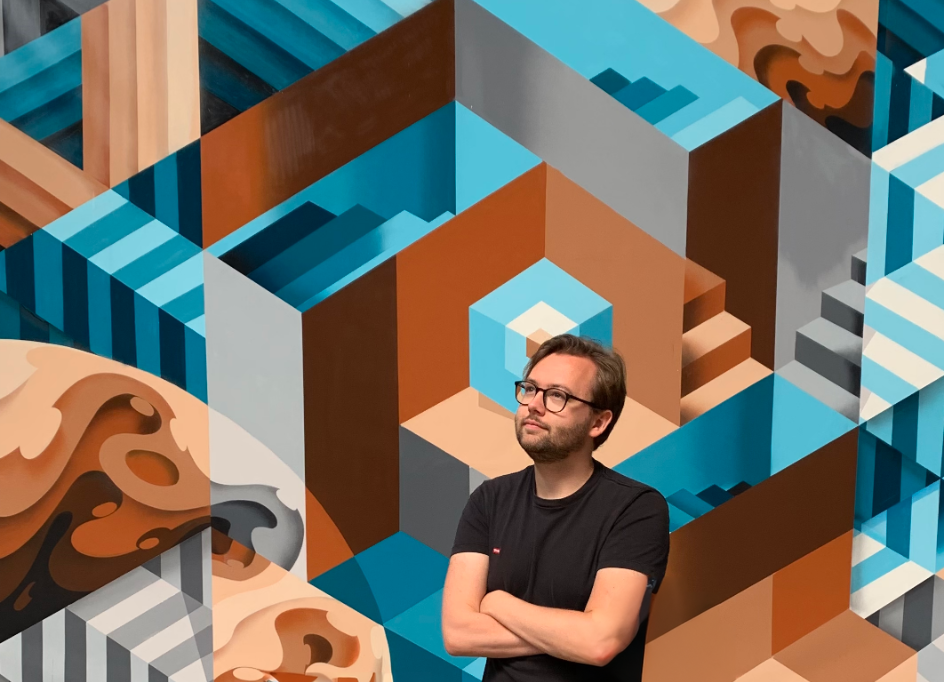
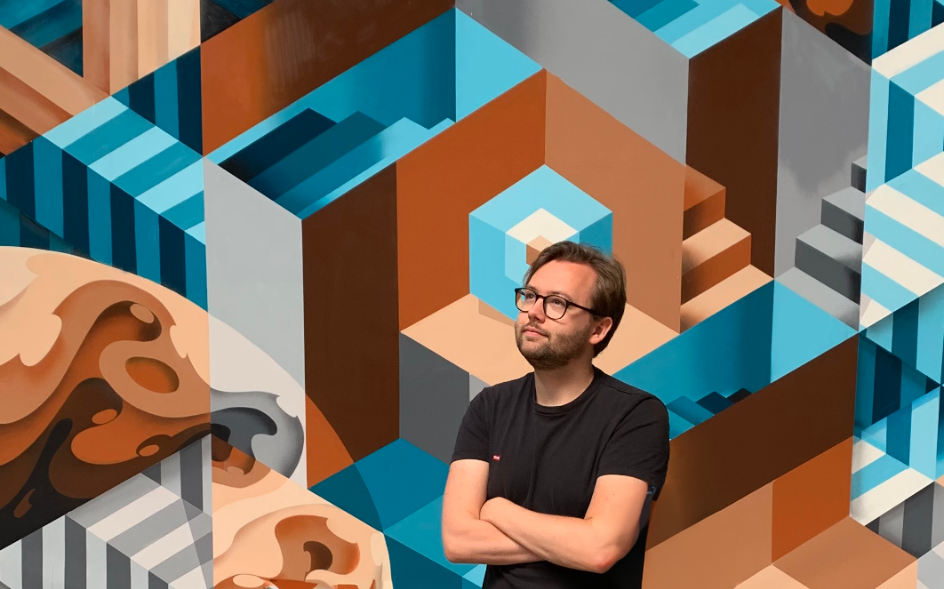
Put picture in middle

diff --git a/publications.html b/publications.html
@@ -78,22 +78,22 @@
                 <h2 class="pub-head">International journal articles</h2>
                 
                   <div class="publication-card">
-                    <p><span class='highlight-me'>C. de Vente</span>, L.H. Boulogne, K. Vaidhya Venkadesh, C. Sital, N. Lessmann, C. Jacobs, C.I. Sánchez and B. van Ginneken. "Automated COVID-19 Grading with Convolutional Neural Networks in Computed Tomography Scans: A Systematic Comparison", <i>IEEE Transactions on Artificial Intelligence</i>, 2022;3(2):129-138.</p><div class="publication-button-group"><a data-ix="goupbox" id="publication-modal-vent21-button" class="knop footerknop movewithmouse w-button publication-button">Cite</a> <a data-ix="goupbox" target="_blank" class="knop footerknop movewithmouse w-button publication-button" href="https://doi.org/10.1109/TAI.2021.3115093">DOI</a></div>
+                    <p><span class='highlight-me'>C. de Vente</span>, L.H. Boulogne, K. Vaidhya Venkadesh, C. Sital, N. Lessmann, C. Jacobs, C.I. Sánchez and B. van Ginneken. "Automated COVID-19 Grading with Convolutional Neural Networks in Computed Tomography Scans: A Systematic Comparison", <i>IEEE Transactions on Artificial Intelligence</i>, 2022;3(2):129-138.</p><div class="publication-button-group"><a data-ix="goupbox" id="publication-modal-vent21-button" class="knop footerknop movewithmouse w-button publication-button">Cite</a><a data-ix="goupbox" href="https://scholar.google.com/scholar?oi=bibs&hl=nl&cites=3751302600748129411" target="_new" class="knop footerknop movewithmouse w-button publication-button">Cited by 9</a> <a data-ix="goupbox" target="_blank" class="knop footerknop movewithmouse w-button publication-button" href="https://doi.org/10.1109/TAI.2021.3115093">DOI</a></div>
 
                   </div>
                 
                   <div class="publication-card">
-                    <p>N. Lessmann, C.I. Sánchez, L. Beenen, L.H. Boulogne, M. Brink, E. Calli, J. Charbonnier, T. Dofferhoff, W.M. van Everdingen, P.K. Gerke, B. Geurts, H.A. Gietema, M. Groeneveld, L. van Harten, N. Hendrix, W. Hendrix, H.J. Huisman, I. Isgum, C. Jacobs, R. Kluge, M. Kok, J. Krdzalic, B. Lassen-Schmidt, K. van Leeuwen, J. Meakin, M. Overkamp, T. van Rees Vellinga, E.M. van Rikxoort, R. Samperna, C. Schaefer-Prokop, S. Schalekamp, E.T. Scholten, C. Sital, L. Stöger, J. Teuwen, K. Vaidhya Venkadesh, <span class='highlight-me'>C. de Vente</span>, M. Vermaat, W. Xie, B. de Wilde, M. Prokop and B. van Ginneken. "Automated Assessment of COVID-19 Reporting and Data System and Chest CT Severity Scores in Patients Suspected of Having COVID-19 Using Artificial Intelligence", <i>Radiology</i>, 2021;298(1):E18-E28.</p><div class="publication-button-group"><a data-ix="goupbox" id="publication-modal-less20-button" class="knop footerknop movewithmouse w-button publication-button">Cite</a> <a data-ix="goupbox" target="_blank" class="knop footerknop movewithmouse w-button publication-button" href="https://doi.org/10.1148/radiol.2020202439">DOI</a> <a data-ix="goupbox" target="_blank" class="knop footerknop movewithmouse w-button publication-button" href="http://www.ncbi.nlm.nih.gov/pubmed/32729810/">PMID</a></div>
+                    <p>N. Lessmann, C.I. Sánchez, L. Beenen, L.H. Boulogne, M. Brink, E. Calli, J. Charbonnier, T. Dofferhoff, W.M. van Everdingen, P.K. Gerke, B. Geurts, H.A. Gietema, M. Groeneveld, L. van Harten, N. Hendrix, W. Hendrix, H.J. Huisman, I. Isgum, C. Jacobs, R. Kluge, M. Kok, J. Krdzalic, B. Lassen-Schmidt, K. van Leeuwen, J. Meakin, M. Overkamp, T. van Rees Vellinga, E.M. van Rikxoort, R. Samperna, C. Schaefer-Prokop, S. Schalekamp, E.T. Scholten, C. Sital, L. Stöger, J. Teuwen, K. Vaidhya Venkadesh, <span class='highlight-me'>C. de Vente</span>, M. Vermaat, W. Xie, B. de Wilde, M. Prokop and B. van Ginneken. "Automated Assessment of COVID-19 Reporting and Data System and Chest CT Severity Scores in Patients Suspected of Having COVID-19 Using Artificial Intelligence", <i>Radiology</i>, 2021;298(1):E18-E28.</p><div class="publication-button-group"><a data-ix="goupbox" id="publication-modal-less20-button" class="knop footerknop movewithmouse w-button publication-button">Cite</a><a data-ix="goupbox" href="https://scholar.google.com/scholar?oi=bibs&hl=nl&cites=13623399645587834950,2370993400684076548" target="_new" class="knop footerknop movewithmouse w-button publication-button">Cited by 127</a> <a data-ix="goupbox" target="_blank" class="knop footerknop movewithmouse w-button publication-button" href="https://doi.org/10.1148/radiol.2020202439">DOI</a> <a data-ix="goupbox" target="_blank" class="knop footerknop movewithmouse w-button publication-button" href="http://www.ncbi.nlm.nih.gov/pubmed/32729810/">PMID</a></div>
 
                   </div>
                 
                   <div class="publication-card">
-                    <p>Z. Xiong, Q. Xia, Z. Hu, N. Huang, C. Bian, Y. Zheng, S. Vesal, N. Ravikumar, A. Maier, X. Yang, P. Heng, D. Ni, C. Li, Q. Tong, W. Si, E. Puybareau, Y. Khoudli, T. Graud, C. Chen, W. Bai, D. Rueckert, L. Xu, X. Zhuang, X. Luo, S. Jia, M. Sermesant, Y. Liu, K. Wang, D. Borra, A. Masci, C. Corsi, <span class='highlight-me'>C. de Vente</span>, M. Veta, R. Karim, C. Jayachandran Preetha, S. Engelhardt, M. Qiao, Y. Wang, Q. Tao, M. Nuñez-Garcia, O. Camara, N. Savioli, P. Lamata and J. Zhao. "A global benchmark of algorithms for segmenting the left atrium from late gadolinium-enhanced cardiac magnetic resonance imaging", <i>Medical Image Analysis</i>, 2021;67:101832.</p><div class="publication-button-group"><a data-ix="goupbox" id="publication-modal-xion21-button" class="knop footerknop movewithmouse w-button publication-button">Cite</a> <a data-ix="goupbox" target="_blank" class="knop footerknop movewithmouse w-button publication-button" href="http://www.ncbi.nlm.nih.gov/pubmed/33166776/">PMID</a></div>
+                    <p>Z. Xiong, Q. Xia, Z. Hu, N. Huang, C. Bian, Y. Zheng, S. Vesal, N. Ravikumar, A. Maier, X. Yang, P. Heng, D. Ni, C. Li, Q. Tong, W. Si, E. Puybareau, Y. Khoudli, T. Graud, C. Chen, W. Bai, D. Rueckert, L. Xu, X. Zhuang, X. Luo, S. Jia, M. Sermesant, Y. Liu, K. Wang, D. Borra, A. Masci, C. Corsi, <span class='highlight-me'>C. de Vente</span>, M. Veta, R. Karim, C. Jayachandran Preetha, S. Engelhardt, M. Qiao, Y. Wang, Q. Tao, M. Nuñez-Garcia, O. Camara, N. Savioli, P. Lamata and J. Zhao. "A global benchmark of algorithms for segmenting the left atrium from late gadolinium-enhanced cardiac magnetic resonance imaging", <i>Medical Image Analysis</i>, 2021;67:101832.</p><div class="publication-button-group"><a data-ix="goupbox" id="publication-modal-xion21-button" class="knop footerknop movewithmouse w-button publication-button">Cite</a><a data-ix="goupbox" href="https://scholar.google.com/scholar?oi=bibs&hl=nl&cites=298995361484429794" target="_new" class="knop footerknop movewithmouse w-button publication-button">Cited by 66</a> <a data-ix="goupbox" target="_blank" class="knop footerknop movewithmouse w-button publication-button" href="http://www.ncbi.nlm.nih.gov/pubmed/33166776/">PMID</a></div>
 
                   </div>
                 
                   <div class="publication-card">
-                    <p><span class='highlight-me'>C. de Vente</span>, P. Vos, M. Hosseinzadeh, J. Pluim and M. Veta. "Deep learning regression for prostate cancer detection and grading in bi-parametric MRI", <i>IEEE Transactions on Biomedical Engineering</i>, 2020;68(2):374-383.</p><div class="publication-button-group"><a data-ix="goupbox" id="publication-modal-vent20a-button" class="knop footerknop movewithmouse w-button publication-button">Cite</a> <a data-ix="goupbox" target="_blank" class="knop footerknop movewithmouse w-button publication-button" href="https://doi.org/10.1109/TBME.2020.2993528">DOI</a> <a data-ix="goupbox" target="_blank" class="knop footerknop movewithmouse w-button publication-button" href="http://www.ncbi.nlm.nih.gov/pubmed/32396068/">PMID</a></div>
+                    <p><span class='highlight-me'>C. de Vente</span>, P. Vos, M. Hosseinzadeh, J. Pluim and M. Veta. "Deep learning regression for prostate cancer detection and grading in bi-parametric MRI", <i>IEEE Transactions on Biomedical Engineering</i>, 2020;68(2):374-383.</p><div class="publication-button-group"><a data-ix="goupbox" id="publication-modal-vent20a-button" class="knop footerknop movewithmouse w-button publication-button">Cite</a><a data-ix="goupbox" href="https://scholar.google.com/scholar?oi=bibs&hl=nl&cites=403188362461805794" target="_new" class="knop footerknop movewithmouse w-button publication-button">Cited by 43</a> <a data-ix="goupbox" target="_blank" class="knop footerknop movewithmouse w-button publication-button" href="https://doi.org/10.1109/TBME.2020.2993528">DOI</a> <a data-ix="goupbox" target="_blank" class="knop footerknop movewithmouse w-button publication-button" href="http://www.ncbi.nlm.nih.gov/pubmed/32396068/">PMID</a></div>
 
                   </div>
                 
@@ -101,7 +101,7 @@
                 <h2 class="pub-head">Preprints</h2>
                 
                   <div class="publication-card">
-                    <p>R. Schwartz, H. Khalid, S. Liakopoulos, Y. Ouyang, <span class='highlight-me'>C. de Vente</span>, C. González-Gonzalo, A.Y. Lee, R. Guymer, E.Y. Chew, C. Egan and others. "A deep learning framework for the detection and quantification of drusen and reticular pseudodrusen on optical coherence tomography", <i>arXiv:2204.02406</i>, 2022.</p><div class="publication-button-group"><a data-ix="goupbox" id="publication-modal-schw22-button" class="knop footerknop movewithmouse w-button publication-button">Cite</a> <a data-ix="goupbox" target="_blank" class="knop footerknop movewithmouse w-button publication-button" href="https://arxiv.org/abs/2204.02406/">arXiv</a></div>
+                    <p>R. Schwartz, H. Khalid, S. Liakopoulos, Y. Ouyang, <span class='highlight-me'>C. de Vente</span>, C. González-Gonzalo, A.Y. Lee, R. Guymer, E.Y. Chew, C. Egan and others. "A deep learning framework for the detection and quantification of drusen and reticular pseudodrusen on optical coherence tomography", <i>arXiv:2204.02406</i>, 2022.</p><div class="publication-button-group"><a data-ix="goupbox" id="publication-modal-schw22-button" class="knop footerknop movewithmouse w-button publication-button">Cite</a><a data-ix="goupbox" href="https://scholar.google.com/scholar?oi=bibs&hl=nl&cites=15646198235825211737" target="_new" class="knop footerknop movewithmouse w-button publication-button">Cited by 1</a> <a data-ix="goupbox" target="_blank" class="knop footerknop movewithmouse w-button publication-button" href="https://arxiv.org/abs/2204.02406/">arXiv</a></div>
 
                   </div>
                 
@@ -124,17 +124,17 @@
                   </div>
                 
                   <div class="publication-card">
-                    <p><span class='highlight-me'>C. de Vente</span>, C. González-Gonzalo, E.F. Thee, M. van Grinsven, C.C. Klaver and C.I. Sánchez. "Making AI Transferable Across OCT Scanners from Different Vendors", in: <i>Association for Research in Vision and Ophthalmology</i>, 2021.</p><div class="publication-button-group"><a data-ix="goupbox" id="publication-modal-vent21a-button" class="knop footerknop movewithmouse w-button publication-button">Cite</a> <a data-ix="goupbox" target="_blank" class="knop footerknop movewithmouse w-button publication-button" href="https://iovs.arvojournals.org/article.aspx?articleid=2775505">URL</a></div>
+                    <p><span class='highlight-me'>C. de Vente</span>, C. González-Gonzalo, E.F. Thee, M. van Grinsven, C.C. Klaver and C.I. Sánchez. "Making AI Transferable Across OCT Scanners from Different Vendors", in: <i>Association for Research in Vision and Ophthalmology</i>, 2021.</p><div class="publication-button-group"><a data-ix="goupbox" id="publication-modal-vent21a-button" class="knop footerknop movewithmouse w-button publication-button">Cite</a><a data-ix="goupbox" href="https://scholar.google.com/scholar?oi=bibs&hl=nl&cites=504386056410585983" target="_new" class="knop footerknop movewithmouse w-button publication-button">Cited by 1</a> <a data-ix="goupbox" target="_blank" class="knop footerknop movewithmouse w-button publication-button" href="https://iovs.arvojournals.org/article.aspx?articleid=2775505">URL</a></div>
 
                   </div>
                 
                   <div class="publication-card">
-                    <p>C. González-Gonzalo, E.F. Thee, B. Liefers, <span class='highlight-me'>C. de Vente</span>, C.C. Klaver and C.I. Sánchez. "Hierarchical curriculum learning for robust automated detection of low-prevalence retinal disease features: application to reticular pseudodrusen", in: <i>Association for Research in Vision and Ophthalmology</i>, 2021.</p><div class="publication-button-group"><a data-ix="goupbox" id="publication-modal-gonz21-button" class="knop footerknop movewithmouse w-button publication-button">Cite</a> <a data-ix="goupbox" target="_blank" class="knop footerknop movewithmouse w-button publication-button" href="https://iovs.arvojournals.org/article.aspx?articleid=2773295">URL</a></div>
+                    <p>C. González-Gonzalo, E.F. Thee, B. Liefers, <span class='highlight-me'>C. de Vente</span>, C.C. Klaver and C.I. Sánchez. "Hierarchical curriculum learning for robust automated detection of low-prevalence retinal disease features: application to reticular pseudodrusen", in: <i>Association for Research in Vision and Ophthalmology</i>, 2021.</p><div class="publication-button-group"><a data-ix="goupbox" id="publication-modal-gonz21-button" class="knop footerknop movewithmouse w-button publication-button">Cite</a><a data-ix="goupbox" href="https://scholar.google.com/scholar?oi=bibs&hl=nl&cites=8274882984481634472" target="_new" class="knop footerknop movewithmouse w-button publication-button">Cited by 1</a> <a data-ix="goupbox" target="_blank" class="knop footerknop movewithmouse w-button publication-button" href="https://iovs.arvojournals.org/article.aspx?articleid=2773295">URL</a></div>
 
                   </div>
                 
                   <div class="publication-card">
-                    <p><span class='highlight-me'>C. de Vente</span>, M. van Grinsven, S. De Zanet, A. Mosinska, R. Sznitman, C. Klaver and C.I. Sánchez. "Estimating Uncertainty of Deep Neural Networks for Age-related Macular Degeneration Grading using Optical Coherence Tomography", in: <i>Association for Research in Vision and Ophthalmology</i>, 2020.</p><div class="publication-button-group"><a data-ix="goupbox" id="publication-modal-vent20-button" class="knop footerknop movewithmouse w-button publication-button">Cite</a> <a data-ix="goupbox" target="_blank" class="knop footerknop movewithmouse w-button publication-button" href="https://iovs.arvojournals.org/article.aspx?articleid=2769262">URL</a></div>
+                    <p><span class='highlight-me'>C. de Vente</span>, M. van Grinsven, S. De Zanet, A. Mosinska, R. Sznitman, C. Klaver and C.I. Sánchez. "Estimating Uncertainty of Deep Neural Networks for Age-related Macular Degeneration Grading using Optical Coherence Tomography", in: <i>Association for Research in Vision and Ophthalmology</i>, 2020.</p><div class="publication-button-group"><a data-ix="goupbox" id="publication-modal-vent20-button" class="knop footerknop movewithmouse w-button publication-button">Cite</a><a data-ix="goupbox" href="https://scholar.google.com/scholar?oi=bibs&hl=nl&cites=13938730969248371423" target="_new" class="knop footerknop movewithmouse w-button publication-button">Cited by 1</a> <a data-ix="goupbox" target="_blank" class="knop footerknop movewithmouse w-button publication-button" href="https://iovs.arvojournals.org/article.aspx?articleid=2769262">URL</a></div>
 
                   </div>
                 
@@ -147,7 +147,7 @@
                 <h2 class="pub-head">Papers in conference proceedings</h2>
                 
                   <div class="publication-card">
-                    <p><span class='highlight-me'>C. de Vente</span>, M. Veta, O. Razeghi, S. Niederer, J. Pluim, K. Rhode and R. Karim. "Convolutional neural networks for segmentation of the left atrium from gadolinium-enhancement MRI images", in: <i>International Workshop on Statistical Atlases and Computational Models of the Heart</i>, 2018, pages 348-356.</p><div class="publication-button-group"><a data-ix="goupbox" id="publication-modal-vent18-button" class="knop footerknop movewithmouse w-button publication-button">Cite</a></div>
+                    <p><span class='highlight-me'>C. de Vente</span>, M. Veta, O. Razeghi, S. Niederer, J. Pluim, K. Rhode and R. Karim. "Convolutional neural networks for segmentation of the left atrium from gadolinium-enhancement MRI images", in: <i>International Workshop on Statistical Atlases and Computational Models of the Heart</i>, 2018, pages 348-356.</p><div class="publication-button-group"><a data-ix="goupbox" id="publication-modal-vent18-button" class="knop footerknop movewithmouse w-button publication-button">Cite</a><a data-ix="goupbox" href="https://scholar.google.com/scholar?oi=bibs&hl=nl&cites=1263087259858021090" target="_new" class="knop footerknop movewithmouse w-button publication-button">Cited by 5</a></div>
 
                   </div>
                 

diff --git a/project-prostate.html b/project-prostate.html
@@ -97,7 +97,7 @@
             <p>Please use this when referring to the post or publication:</p>
             
               <div class="publication-card">
-                <p><span class='highlight-me'>C. de Vente</span>, P. Vos, M. Hosseinzadeh, J. Pluim and M. Veta. "Deep learning regression for prostate cancer detection and grading in bi-parametric MRI", <i>IEEE Transactions on Biomedical Engineering</i>, 2020;68(2):374-383.</p><div class="publication-button-group"><a data-ix="goupbox" id="publication-modal-vent20a-button" class="knop footerknop movewithmouse w-button publication-button">Cite</a> <a data-ix="goupbox" target="_blank" class="knop footerknop movewithmouse w-button publication-button" href="https://doi.org/10.1109/TBME.2020.2993528">DOI</a> <a data-ix="goupbox" target="_blank" class="knop footerknop movewithmouse w-button publication-button" href="http://www.ncbi.nlm.nih.gov/pubmed/32396068/">PMID</a></div>
+                <p><span class='highlight-me'>C. de Vente</span>, P. Vos, M. Hosseinzadeh, J. Pluim and M. Veta. "Deep learning regression for prostate cancer detection and grading in bi-parametric MRI", <i>IEEE Transactions on Biomedical Engineering</i>, 2020;68(2):374-383.</p><div class="publication-button-group"><a data-ix="goupbox" id="publication-modal-vent20a-button" class="knop footerknop movewithmouse w-button publication-button">Cite</a><a data-ix="goupbox" href="https://scholar.google.com/scholar?oi=bibs&hl=nl&cites=403188362461805794" target="_new" class="knop footerknop movewithmouse w-button publication-button">Cited by 43</a> <a data-ix="goupbox" target="_blank" class="knop footerknop movewithmouse w-button publication-button" href="https://doi.org/10.1109/TBME.2020.2993528">DOI</a> <a data-ix="goupbox" target="_blank" class="knop footerknop movewithmouse w-button publication-button" href="http://www.ncbi.nlm.nih.gov/pubmed/32396068/">PMID</a></div>
 
               </div>
             

diff --git a/project-amd.html b/project-amd.html
@@ -113,7 +113,7 @@
             <p>Please use this when referring to the post or publication:</p>
             
               <div class="publication-card">
-                <p><span class='highlight-me'>C. de Vente</span>, M. van Grinsven, S. De Zanet, A. Mosinska, R. Sznitman, C. Klaver and C.I. Sánchez. "Estimating Uncertainty of Deep Neural Networks for Age-related Macular Degeneration Grading using Optical Coherence Tomography", in: <i>Association for Research in Vision and Ophthalmology</i>, 2020.</p><div class="publication-button-group"><a data-ix="goupbox" id="publication-modal-vent20-button" class="knop footerknop movewithmouse w-button publication-button">Cite</a> <a data-ix="goupbox" target="_blank" class="knop footerknop movewithmouse w-button publication-button" href="https://iovs.arvojournals.org/article.aspx?articleid=2769262">URL</a></div>
+                <p><span class='highlight-me'>C. de Vente</span>, M. van Grinsven, S. De Zanet, A. Mosinska, R. Sznitman, C. Klaver and C.I. Sánchez. "Estimating Uncertainty of Deep Neural Networks for Age-related Macular Degeneration Grading using Optical Coherence Tomography", in: <i>Association for Research in Vision and Ophthalmology</i>, 2020.</p><div class="publication-button-group"><a data-ix="goupbox" id="publication-modal-vent20-button" class="knop footerknop movewithmouse w-button publication-button">Cite</a><a data-ix="goupbox" href="https://scholar.google.com/scholar?oi=bibs&hl=nl&cites=13938730969248371423" target="_new" class="knop footerknop movewithmouse w-button publication-button">Cited by 1</a> <a data-ix="goupbox" target="_blank" class="knop footerknop movewithmouse w-button publication-button" href="https://iovs.arvojournals.org/article.aspx?articleid=2769262">URL</a></div>
 
               </div>
             

diff --git a/project-covid.html b/project-covid.html
@@ -105,7 +105,7 @@
             <p>Please use this when referring to the post or publication:</p>
             
               <div class="publication-card">
-                <p><span class='highlight-me'>C. de Vente</span>, L.H. Boulogne, K. Vaidhya Venkadesh, C. Sital, N. Lessmann, C. Jacobs, C.I. Sánchez and B. van Ginneken. "Automated COVID-19 Grading with Convolutional Neural Networks in Computed Tomography Scans: A Systematic Comparison", <i>IEEE Transactions on Artificial Intelligence</i>, 2022;3(2):129-138.</p><div class="publication-button-group"><a data-ix="goupbox" id="publication-modal-vent21-button" class="knop footerknop movewithmouse w-button publication-button">Cite</a> <a data-ix="goupbox" target="_blank" class="knop footerknop movewithmouse w-button publication-button" href="https://doi.org/10.1109/TAI.2021.3115093">DOI</a></div>
+                <p><span class='highlight-me'>C. de Vente</span>, L.H. Boulogne, K. Vaidhya Venkadesh, C. Sital, N. Lessmann, C. Jacobs, C.I. Sánchez and B. van Ginneken. "Automated COVID-19 Grading with Convolutional Neural Networks in Computed Tomography Scans: A Systematic Comparison", <i>IEEE Transactions on Artificial Intelligence</i>, 2022;3(2):129-138.</p><div class="publication-button-group"><a data-ix="goupbox" id="publication-modal-vent21-button" class="knop footerknop movewithmouse w-button publication-button">Cite</a><a data-ix="goupbox" href="https://scholar.google.com/scholar?oi=bibs&hl=nl&cites=3751302600748129411" target="_new" class="knop footerknop movewithmouse w-button publication-button">Cited by 9</a> <a data-ix="goupbox" target="_blank" class="knop footerknop movewithmouse w-button publication-button" href="https://doi.org/10.1109/TAI.2021.3115093">DOI</a></div>
 
               </div>
             

diff --git a/css/webflow.css b/css/webflow.css
@@ -1837,7 +1837,7 @@ p > a {
   background-image: radial-gradient(circle farthest-corner at 0% 0%, rgba(11, 12, 41, 0.7), rgba(91, 91, 218, 0.5)), url('../images/me_art.png') ;
   background-size: cover;
   height: 650px;
-  background-position: bottom;
+  background-position: center;
   display: flex;
   flex-direction: row-reverse;
   align-items: flex-end;
